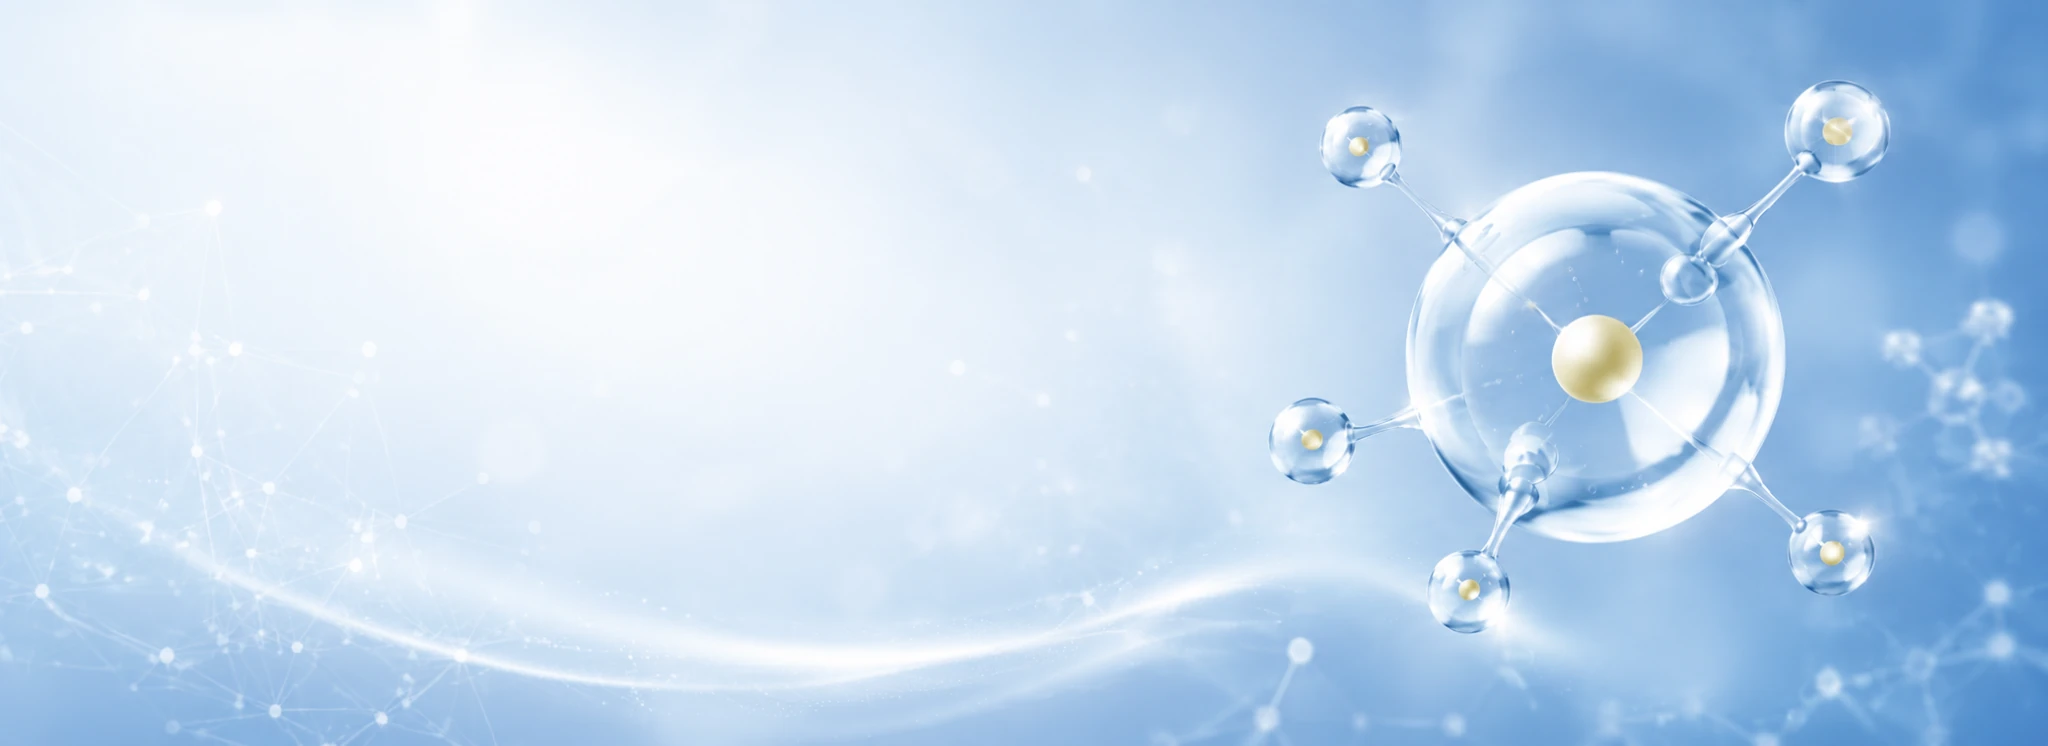
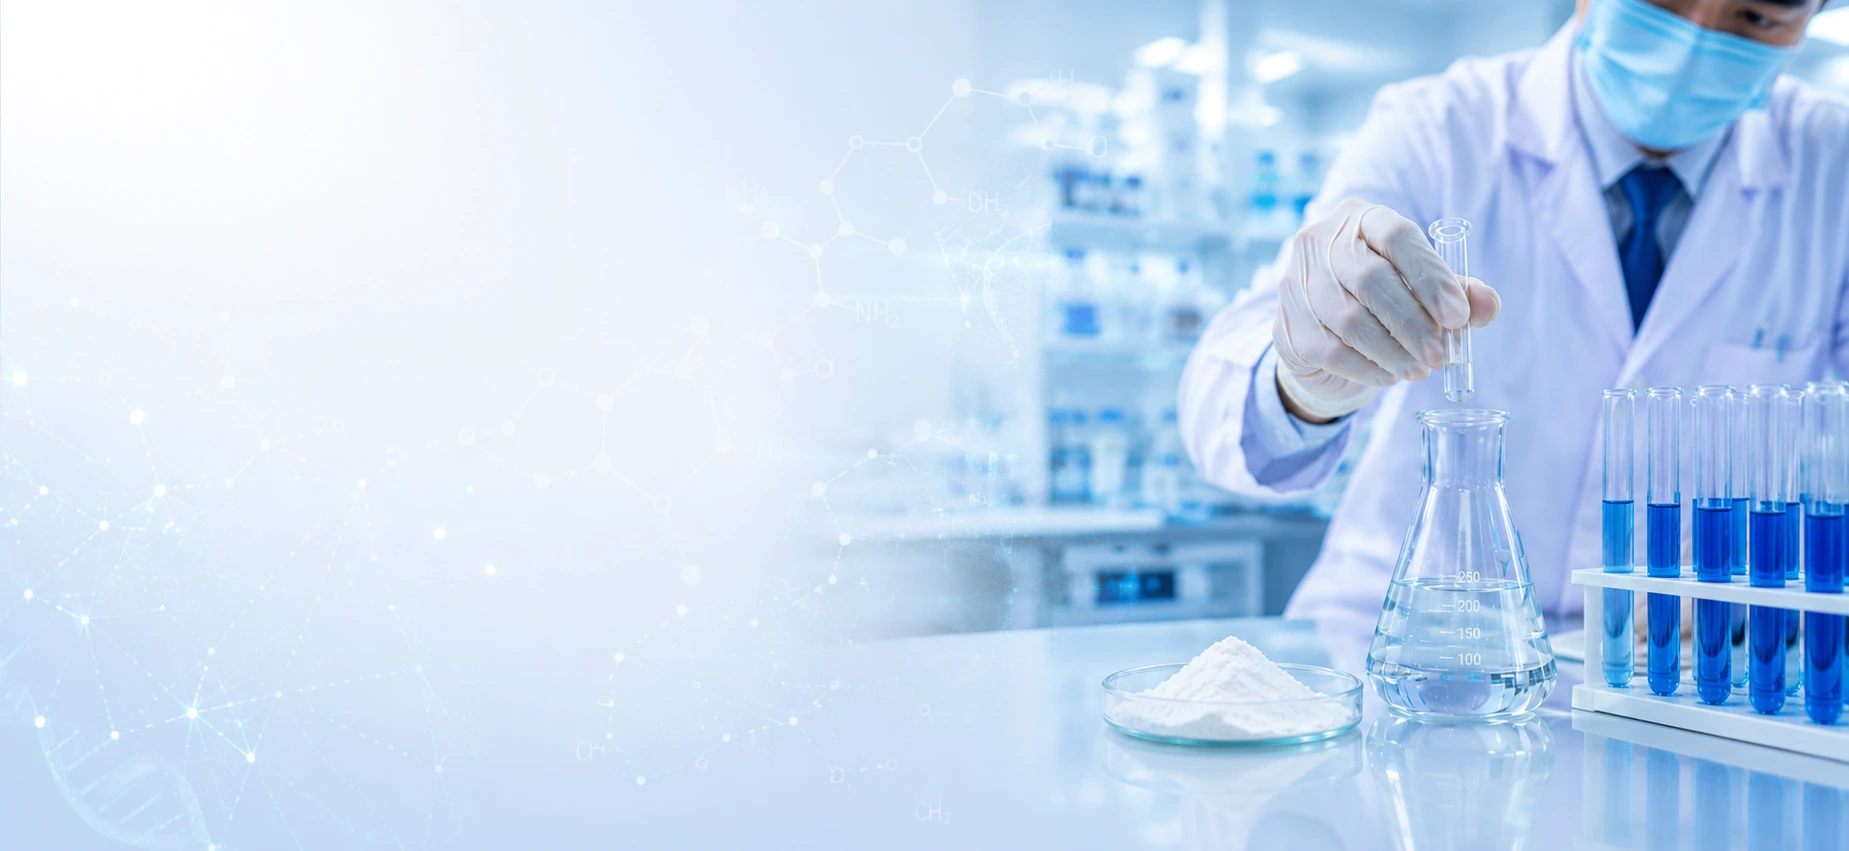
Add files via upload

diff --git a/nutrition-solution.css b/nutrition-solution.css
@@ -41,11 +41,11 @@
 .nutrition-solution-page .ns-hero__media,
 .nutrition-solution-page .ns-hero__media picture,
 .nutrition-solution-page .ns-hero__media img { position: absolute; inset: 0; width: 100%; height: 100%; }
-.nutrition-solution-page .ns-hero__media img { object-fit: cover; object-position: center; }
+.nutrition-solution-page .ns-hero__media img { object-fit: cover; object-position: 72% center; }
 .nutrition-solution-page .ns-hero::before { content: ""; position: absolute; z-index: 1; inset: 0; background: linear-gradient(90deg, rgba(255,255,255,.95) 0%, rgba(255,255,255,.83) 32%, rgba(255,255,255,.36) 52%, rgba(255,255,255,.02) 72%); }
 .nutrition-solution-page .ns-hero__inner { position: relative; z-index: 2; display: flex; align-items: center; min-height: inherit; }
-.nutrition-solution-page .ns-hero__copy { width: min(610px, 46%); }
-.nutrition-solution-page .ns-hero h1 { margin: 0; color: var(--ns-navy); font-size: clamp(2.55rem, 4vw, 4.25rem); line-height: 1.06; letter-spacing: -.045em; text-transform: uppercase; text-wrap: balance; }
+.nutrition-solution-page .ns-hero__copy { width: min(720px, 50%); }
+.nutrition-solution-page .ns-hero h1 { margin: 0; color: var(--ns-navy); font-size: clamp(2.05rem, 3.05vw, 3.45rem); line-height: 1.08; letter-spacing: -.04em; text-transform: uppercase; white-space: nowrap; text-wrap: nowrap; }
 .nutrition-solution-page .ns-hero__copy > p:last-child { max-width: 590px; margin: 23px 0 0; color: var(--ns-muted); font-size: clamp(1rem, 1.2vw, 1.14rem); line-height: 1.68; }
 
 /* 2. Intro */
@@ -62,7 +62,7 @@
 
 /* 3. Solutions */
 .nutrition-solution-page .ns-solutions { display: grid; grid-template-columns: repeat(3, minmax(0, 1fr)); gap: 20px; }
-.nutrition-solution-page .ns-solution-card { position: relative; min-height: 350px; display: grid; grid-template-columns: minmax(0, 1fr) 90px; gap: 16px; overflow: hidden; padding: 30px; border: 1px solid var(--ns-line); border-radius: 21px; background: linear-gradient(145deg, #fff 0%, #fbfdff 68%, #eef8ff 100%); box-shadow: 0 12px 34px rgba(7,59,134,.065); transition: transform .3s ease, box-shadow .3s ease, border-color .3s ease; }
+.nutrition-solution-page .ns-solution-card { position: relative; min-height: 300px; display: grid; grid-template-columns: minmax(0, 1fr) clamp(120px, 9vw, 150px); gap: 18px; align-items: center; overflow: hidden; padding: 28px; border: 1px solid var(--ns-line); border-radius: 21px; background: linear-gradient(145deg, #fff 0%, #fbfdff 68%, #eef8ff 100%); box-shadow: 0 12px 34px rgba(7,59,134,.065); transition: transform .3s ease, box-shadow .3s ease, border-color .3s ease; }
 .nutrition-solution-page .ns-solution-card::after { content: ""; position: absolute; right: -65px; bottom: -65px; width: 190px; height: 190px; border-radius: 50%; background: radial-gradient(circle, rgba(18,174,234,.14), transparent 67%); }
 .nutrition-solution-page .ns-solution-card:hover { transform: translateY(-6px); border-color: #b7d9f4; box-shadow: var(--ns-shadow-hover); }
 .nutrition-solution-page .ns-solution-card__content { position: relative; z-index: 1; min-width: 0; }
@@ -71,9 +71,9 @@
 .nutrition-solution-page .ns-solution-card li { position: relative; padding-left: 17px; color: var(--ns-ink); font-size: .88rem; font-weight: 720; }
 .nutrition-solution-page .ns-solution-card li::before { content: ""; position: absolute; left: 1px; top: .58em; width: 6px; height: 6px; border-radius: 50%; background: var(--ns-cyan); box-shadow: 0 0 0 4px rgba(18,174,234,.11); }
 .nutrition-solution-page .ns-solution-card p { margin: 24px 0 0; color: var(--ns-muted); font-size: .87rem; line-height: 1.62; }
-.nutrition-solution-page .ns-solution-card__icon { position: relative; z-index: 1; width: 82px; height: 82px; display: grid; place-items: center; border: 1px solid #c7e1f5; border-radius: 25px; color: var(--ns-blue); background: rgba(255,255,255,.95); box-shadow: 0 13px 30px rgba(7,95,200,.12); transition: color .3s ease, background .3s ease, transform .3s ease; }
-.nutrition-solution-page .ns-solution-card:hover .ns-solution-card__icon { transform: translateY(-3px) scale(1.04); color: #fff; background: linear-gradient(145deg, var(--ns-blue), var(--ns-cyan)); }
-.nutrition-solution-page .ns-solution-card__icon svg { width: 40px; height: 40px; }
+.nutrition-solution-page .ns-solution-card__icon { position: relative; z-index: 1; width: clamp(120px, 9vw, 150px); height: clamp(120px, 9vw, 150px); display: grid; place-items: center; justify-self: end; border: 0; border-radius: 0; background: transparent; box-shadow: none; transition: transform .3s ease, filter .3s ease; }
+.nutrition-solution-page .ns-solution-card:hover .ns-solution-card__icon { transform: translateY(-3px) scale(1.06); filter: drop-shadow(0 12px 18px rgba(7,95,200,.16)); }
+.nutrition-solution-page .ns-solution-card__icon img { width: 100%; height: 100%; object-fit: contain; }
 
 /* 4. Process */
 .nutrition-solution-page .ns-process { position: relative; display: grid; grid-template-columns: repeat(5, minmax(0,1fr)); gap: 16px; margin: 0; padding: 10px 0 0; list-style: none; }
@@ -113,7 +113,7 @@
 .nutrition-solution-page .ns-cta::before { content: ""; position: absolute; z-index: 1; inset: 0; background: linear-gradient(90deg, rgba(2,36,92,.28), rgba(3,49,116,.18), rgba(2,36,92,.28)); }
 .nutrition-solution-page .ns-cta__inner { position: relative; z-index: 2; display: flex; justify-content: center; align-items: center; min-height: inherit; }
 .nutrition-solution-page .ns-cta__copy { max-width: 870px; text-align: center; color: #fff; }
-.nutrition-solution-page .ns-cta h2 { margin: 0; color: #fff; font-size: clamp(2rem, 3vw, 3.15rem); line-height: 1.17; text-transform: uppercase; text-wrap: balance; }
+.nutrition-solution-page .ns-cta h2 { max-width: 780px; margin: 0 auto; color: #fff; font-size: clamp(1.55rem, 2.15vw, 2.35rem); line-height: 1.2; text-transform: uppercase; text-wrap: balance; }
 .nutrition-solution-page .ns-cta p { max-width: 720px; margin: 18px auto 0; color: #e0efff; font-size: 1rem; line-height: 1.65; }
 .nutrition-solution-page .ns-cta .btn { min-width: 210px; margin-top: 26px; border-color: rgba(255,255,255,.8); background: rgba(2,38,95,.32); }
 .nutrition-solution-page .ns-cta .btn:hover { background: rgba(18,174,234,.24); box-shadow: 0 12px 30px rgba(0,0,0,.18); }
@@ -167,16 +167,16 @@
   .nutrition-solution-page .ns-hero::before { background: linear-gradient(180deg, rgba(255,255,255,.97) 0%, rgba(255,255,255,.9) 36%, rgba(255,255,255,.36) 58%, rgba(255,255,255,.02) 75%); }
   .nutrition-solution-page .ns-hero__inner { align-items: flex-start; padding-top: 54px; }
   .nutrition-solution-page .ns-hero__copy { width: 100%; max-width: 580px; }
-  .nutrition-solution-page .ns-hero h1 { max-width: 510px; font-size: clamp(2.15rem, 10vw, 3.05rem); }
+  .nutrition-solution-page .ns-hero h1 { max-width: none; font-size: clamp(1.38rem, 6.8vw, 2rem); white-space: nowrap; text-wrap: nowrap; }
   .nutrition-solution-page .ns-hero__copy > p:last-child { max-width: 540px; margin-top: 18px; font-size: .96rem; }
 
   .nutrition-solution-page .ns-intro { grid-template-columns: 1fr; gap: 34px; }
   .nutrition-solution-page .ns-intro__copy h2 { font-size: clamp(1.7rem, 7vw, 2.25rem); }
 
   .nutrition-solution-page .ns-solutions { grid-template-columns: 1fr; }
-  .nutrition-solution-page .ns-solution-card { min-height: 0; grid-template-columns: minmax(0,1fr) 74px; padding: 25px 22px; }
-  .nutrition-solution-page .ns-solution-card__icon { width: 70px; height: 70px; border-radius: 21px; }
-  .nutrition-solution-page .ns-solution-card__icon svg { width: 34px; height: 34px; }
+  .nutrition-solution-page .ns-solution-card { min-height: 0; grid-template-columns: minmax(0,1fr) 116px; gap: 14px; padding: 25px 22px; }
+  .nutrition-solution-page .ns-solution-card__icon { width: 112px; height: 112px; border-radius: 0; }
+  .nutrition-solution-page .ns-solution-card__icon img { width: 100%; height: 100%; object-fit: contain; }
 
   .nutrition-solution-page .ns-process { display: block; padding-left: 30px; }
   .nutrition-solution-page .ns-process::before { display: block; top: 10px; bottom: 10px; left: 43px; right: auto; width: 2px; height: auto; }
@@ -203,15 +203,15 @@
   .nutrition-solution-page .ns-cta__media img { object-position: center; }
   .nutrition-solution-page .ns-cta::before { background: rgba(3,40,95,.22); }
   .nutrition-solution-page .ns-cta__inner { align-items: center; padding: 50px 0; }
-  .nutrition-solution-page .ns-cta h2 { font-size: clamp(1.75rem, 7.5vw, 2.5rem); }
+  .nutrition-solution-page .ns-cta h2 { max-width: 640px; font-size: clamp(1.42rem, 6.3vw, 2rem); }
   .nutrition-solution-page .ns-cta p { font-size: .92rem; }
   .nutrition-solution-page .ns-cta .btn { width: 100%; max-width: 360px; }
 }
 
 @media (max-width: 480px) {
-  .nutrition-solution-page .ns-solution-card { grid-template-columns: 1fr; }
-  .nutrition-solution-page .ns-solution-card__icon { grid-row: 1; margin-bottom: 4px; }
-  .nutrition-solution-page .ns-solution-card__content { grid-row: 2; }
+  .nutrition-solution-page .ns-solution-card { grid-template-columns: minmax(0,1fr) 102px; }
+  .nutrition-solution-page .ns-solution-card__icon { grid-row: auto; width: 98px; height: 98px; margin-bottom: 0; }
+  .nutrition-solution-page .ns-solution-card__content { grid-row: auto; }
   .nutrition-solution-page .ns-solution-card ul { margin-top: 18px; }
   .nutrition-solution-page .ns-advantage { grid-template-columns: 64px minmax(0,1fr); gap: 15px; }
   .nutrition-solution-page .ns-advantage__icon { width: 64px; height: 64px; border-radius: 18px; }

diff --git a/giai-phap-dinh-duong.html b/giai-phap-dinh-duong.html
@@ -23,8 +23,8 @@
   <meta property="og:title" content="Giải pháp dinh dưỡng | AMM Germany Nutrition">
   <meta property="og:description" content="Các giải pháp dinh dưỡng khoa học của AMM được phát triển theo nhu cầu sức khỏe, đối tượng sử dụng và mục tiêu thương mại của sản phẩm.">
   <meta property="og:image" content="https://ammnutrition.vn/nutrition-solution-hero-desktop.webp">
-  <meta property="og:image:width" content="2048">
-  <meta property="og:image:height" content="746">
+  <meta property="og:image:width" content="1849">
+  <meta property="og:image:height" content="851">
   <meta name="twitter:card" content="summary_large_image">
   <meta name="twitter:title" content="Giải pháp dinh dưỡng | AMM Germany Nutrition">
   <meta name="twitter:description" content="Nghiên cứu và phát triển giải pháp dinh dưỡng phù hợp với từng nhóm đối tượng, mục tiêu sản phẩm và nhu cầu thị trường.">
@@ -150,7 +150,7 @@
     <div class="ns-hero__media" aria-hidden="true">
       <picture>
         <source media="(max-width: 767px)" srcset="nutrition-solution-hero-mobile.webp">
-        <img src="nutrition-solution-hero-desktop.webp" width="2048" height="746" alt="" fetchpriority="high" decoding="async">
+        <img src="nutrition-solution-hero-desktop.webp" width="1849" height="851" alt="" fetchpriority="high" decoding="async">
       </picture>
     </div>
     <div class="container ns-hero__inner">
@@ -193,27 +193,27 @@
       <div class="ns-solutions">
         <article class="ns-solution-card" data-ns-reveal="up" data-ns-delay="0">
           <div class="ns-solution-card__content"><h3>Tăng cường miễn dịch</h3><ul><li>Colosferrin</li><li>Lactoferrin</li><li>IgG</li><li>Vitamin và khoáng chất</li></ul><p>Hỗ trợ xây dựng nền tảng miễn dịch và nâng cao sức đề kháng cho từng nhóm đối tượng.</p></div>
-          <div class="ns-solution-card__icon"><svg aria-hidden="true"><use href="#ns-i-shield"></use></svg></div>
+          <div class="ns-solution-card__icon"><img src="nutrition-icon-immunity.webp" width="833" height="941" alt="Biểu tượng tăng cường miễn dịch" loading="lazy" decoding="async"></div>
         </article>
         <article class="ns-solution-card" data-ns-reveal="up" data-ns-delay="70">
           <div class="ns-solution-card__content"><h3>Hệ tiêu hóa khỏe</h3><ul><li>GOS</li><li>FOS</li><li>Postbiotic</li><li>Probiotic</li></ul><p>Hỗ trợ cân bằng hệ vi sinh đường ruột và nâng cao khả năng hấp thu dinh dưỡng.</p></div>
-          <div class="ns-solution-card__icon"><svg aria-hidden="true"><use href="#ns-i-gut"></use></svg></div>
+          <div class="ns-solution-card__icon"><img src="nutrition-icon-digestion.webp" width="856" height="941" alt="Biểu tượng hệ tiêu hóa khỏe" loading="lazy" decoding="async"></div>
         </article>
         <article class="ns-solution-card" data-ns-reveal="up" data-ns-delay="140">
           <div class="ns-solution-card__content"><h3>Phát triển chiều cao</h3><ul><li>Canxi</li><li>Vitamin D3</li><li>Vitamin K2</li><li>HMB</li></ul><p>Hỗ trợ phát triển hệ xương, duy trì mật độ xương và tối ưu khả năng tăng trưởng.</p></div>
-          <div class="ns-solution-card__icon"><svg aria-hidden="true"><use href="#ns-i-height"></use></svg></div>
+          <div class="ns-solution-card__icon"><img src="nutrition-icon-height.webp" width="941" height="941" alt="Biểu tượng phát triển chiều cao" loading="lazy" decoding="async"></div>
         </article>
         <article class="ns-solution-card" data-ns-reveal="up" data-ns-delay="0">
           <div class="ns-solution-card__content"><h3>Phát triển não bộ</h3><ul><li>DHA</li><li>ARA</li><li>Choline</li><li>Taurine</li></ul><p>Hỗ trợ phát triển não bộ, thị giác và khả năng nhận thức ở từng giai đoạn.</p></div>
-          <div class="ns-solution-card__icon"><svg aria-hidden="true"><use href="#ns-i-brain"></use></svg></div>
+          <div class="ns-solution-card__icon"><img src="nutrition-icon-brain.webp" width="889" height="767" alt="Biểu tượng phát triển não bộ" loading="lazy" decoding="async"></div>
         </article>
         <article class="ns-solution-card" data-ns-reveal="up" data-ns-delay="70">
           <div class="ns-solution-card__content"><h3>Tăng cân &amp; tăng trưởng</h3><ul><li>Protein</li><li>Lipid</li><li>Năng lượng</li><li>MCT</li></ul><p>Cung cấp nền tảng dinh dưỡng cân đối, hỗ trợ tăng cân và phát triển thể chất.</p></div>
-          <div class="ns-solution-card__icon"><svg aria-hidden="true"><use href="#ns-i-growth"></use></svg></div>
+          <div class="ns-solution-card__icon"><img src="nutrition-icon-growth.webp" width="941" height="908" alt="Biểu tượng tăng cân và tăng trưởng" loading="lazy" decoding="async"></div>
         </article>
         <article class="ns-solution-card" data-ns-reveal="up" data-ns-delay="140">
           <div class="ns-solution-card__content"><h3>Kiểm soát đường huyết</h3><ul><li>Isomaltulose</li><li>Chất xơ</li><li>MCT</li><li>Đạm Whey</li></ul><p>Phát triển giải pháp phù hợp cho sản phẩm cần kiểm soát năng lượng và đường huyết.</p></div>
-          <div class="ns-solution-card__icon"><svg aria-hidden="true"><use href="#ns-i-glucose"></use></svg></div>
+          <div class="ns-solution-card__icon"><img src="nutrition-icon-glucose.webp" width="621" height="941" alt="Biểu tượng kiểm soát đường huyết" loading="lazy" decoding="async"></div>
         </article>
       </div>
     </div>
